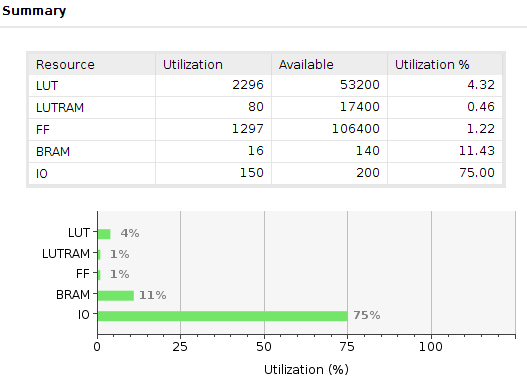
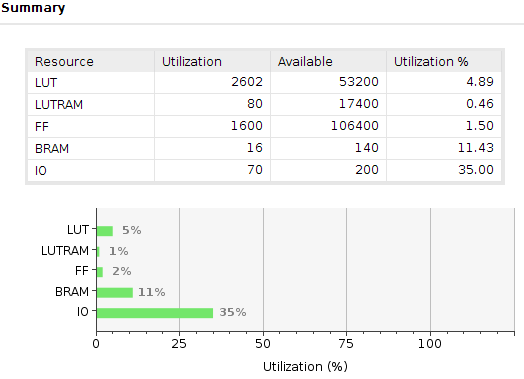
removing redundant simulation scripts. renaming the top. using only orca-top as deisgn top. change default orca-top size to 2x1. using sed in run.sh to change orca_defaults

diff --git a/docs/processing-tile.md b/docs/processing-tile.md
@@ -1,4 +1,4 @@
-# ORCA Processing Tile
+# The ORCA Processing Tile
 
 
 ## Tile Interface

diff --git a/docs/mpsoc.md b/docs/mpsoc.md
@@ -1,4 +1,4 @@
-# An 2x2 MPSoC
+# The ORCA MPSoC
 
 
 ## MPSoC Interface
